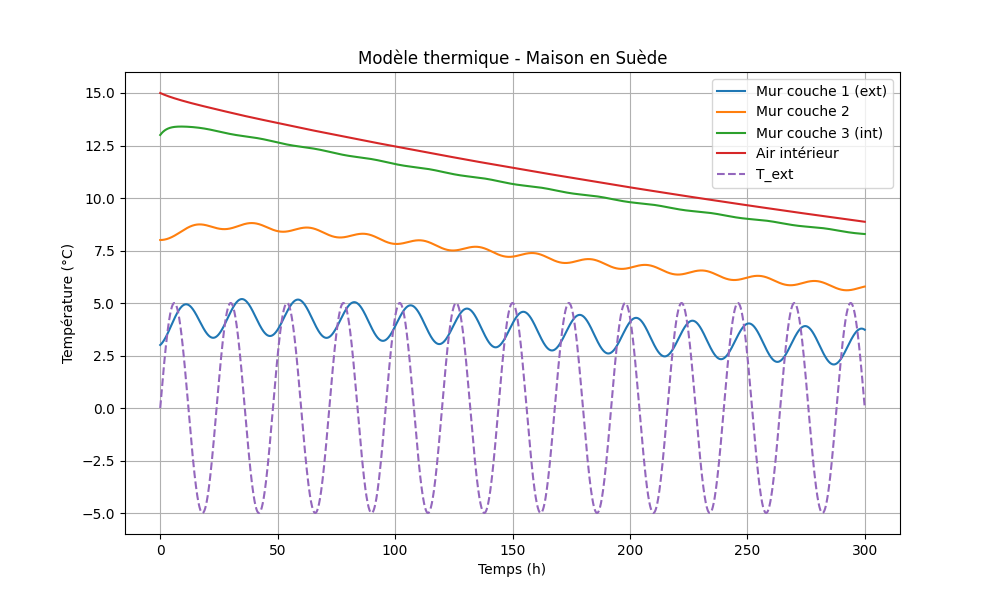
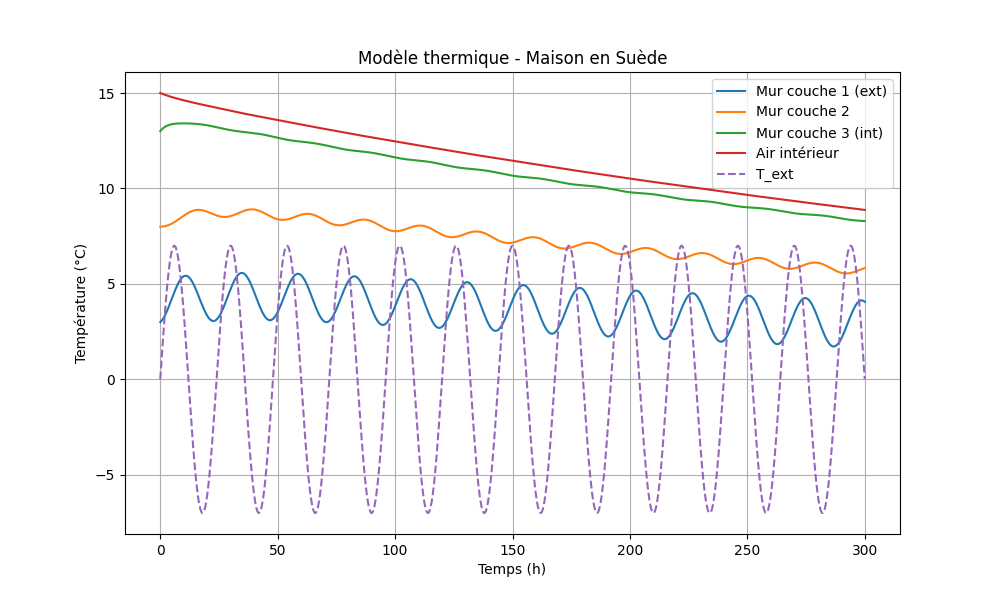
ss

diff --git a/model2.py b/model2.py
@@ -1,0 +1,97 @@
+import numpy as np
+import matplotlib.pyplot as plt
+
+def lire_parametres(fichier):
+    params = {}
+    with open(fichier, 'r') as f:
+        for ligne in f:
+            ligne = ligne.strip()
+            if not ligne or ligne.startswith('#'):
+                continue
+            cle, valeur = ligne.split('=')
+            cle = cle.strip()
+            valeur = valeur.strip()
+            if ',' in valeur:
+                valeur = tuple(map(float, valeur.split(',')))
+            elif '.' in valeur or 'e' in valeur.lower():
+                valeur = float(valeur)
+            else:
+                try:
+                    valeur = int(valeur)
+                except ValueError:
+                    pass
+            params[cle] = valeur
+    return params
+
+# Lecture des paramètres
+param = lire_parametres("parametres_s.txt")
+
+# Assignation
+A_sol = param["A_sol"]
+h = param["h"]
+e_mur = param["e_mur"]
+lambda_mur = param["lambda_mur"]
+rho_mur = param["rho_mur"]
+c_p_mur = param["c_p_mur"]
+rho_air = param["rho_air"]
+c_p_air = param["c_p_air"]
+h_int = param["h_int"]
+
+T1_0, T2_0, T3_0, T_int_0 = param["T_init"]
+T_ext_base = param["T_ext_base"]
+T_ext_ampl = param["T_ext_ampl"]
+
+dt = param["dt"]
+t_max = param["t_max"]
+N = int(t_max / dt)
+t = np.linspace(0, t_max, N)
+
+# Calcul géométrique
+A_mur = 2 * (2 * np.sqrt(A_sol)) * h
+volume_air = A_sol * h
+n_couches = 3
+e_couche = e_mur / n_couches
+V_couche = A_mur * e_couche
+C_mur = rho_mur * c_p_mur * V_couche
+R_couche = e_couche / (lambda_mur * A_mur)
+
+C1 = C2 = C3 = C_mur
+C_int = volume_air * rho_air * c_p_air + rho_mur * c_p_mur * A_sol * 0.2 + rho_mur * c_p_mur * A_sol * 0.10
+R_iso = R12 = R23 = R_couche
+R_mur_int = 1 / (h_int * A_mur)
+
+T_ext = lambda t: T_ext_base + T_ext_ampl * np.sin(2 * np.pi * t / 24)
+
+# Initialisation
+T1 = np.zeros(N)
+T2 = np.zeros(N)
+T3 = np.zeros(N)
+T_int = np.zeros(N)
+T1[0], T2[0], T3[0], T_int[0] = T1_0, T2_0, T3_0, T_int_0
+
+# Simulation
+for n in range(N - 1):
+    Te = T_ext(t[n])
+    dT1 = ((Te - T1[n]) / R_iso - (T1[n] - T2[n]) / R12) / C1
+    dT2 = ((T1[n] - T2[n]) / R12 - (T2[n] - T3[n]) / R23) / C2
+    dT3 = ((T2[n] - T3[n]) / R23 - (T3[n] - T_int[n]) / R_mur_int) / C3
+    dT_int = ((T3[n] - T_int[n]) / R_mur_int) / C_int
+
+    T1[n+1] = T1[n] + dt * 3600 * dT1
+    T2[n+1] = T2[n] + dt * 3600 * dT2
+    T3[n+1] = T3[n] + dt * 3600 * dT3
+    T_int[n+1] = T_int[n] + dt * 3600 * dT_int
+
+# Affichage
+plt.figure(figsize=(10,6))
+plt.plot(t, T1, label="Mur couche 1 (ext)")
+plt.plot(t, T2, label="Mur couche 2")
+plt.plot(t, T3, label="Mur couche 3 (int)")
+plt.plot(t, T_int, label="Air intérieur")
+plt.plot(t, T_ext(t), '--', label="T_ext")
+plt.xlabel("Temps (h)")
+plt.ylabel("Température (°C)")
+plt.title("Modèle thermique générique")
+plt.grid()
+plt.legend()
+plt.show()

diff --git a/model_france.py b/model_france.py
@@ -71,7 +71,7 @@ plt.plot(t, T_int, label="Air intérieur")
 plt.plot(t, T_ext(t), '--', label="T_ext")
 plt.xlabel("Temps (h)")
 plt.ylabel("Température (°C)")
-plt.title("Modèle thermique avec diffusion murale (3 couches)")
+plt.title("Modèle thermique - Maison en Provence")
 plt.grid()
 plt.legend()
 plt.show()
